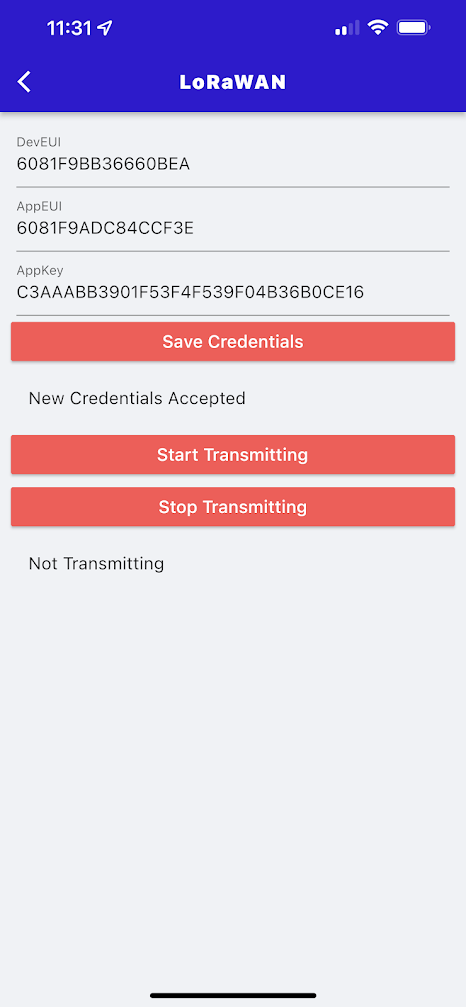
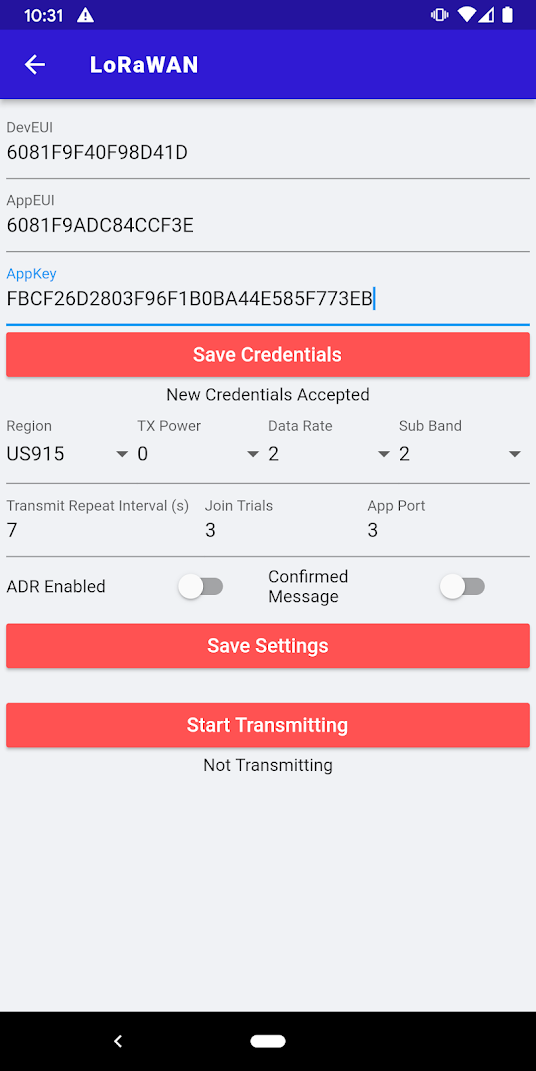
updates for new settings releases

diff --git a/docs/mobile-app/lorawan.md b/docs/mobile-app/lorawan.md
@@ -34,7 +34,7 @@ Next, enter new LoRaWAN credentials in the three provided fields.
 
 <div style={{textAlign: 'center'}}>
         <img
-        src={require('../../static/img/mobile-app/lorawan-default-creds.png').default}
+        src={require('../../static/img/mobile-app/lorawan-default-settings.png').default}
         alt="LoRaWAN Credentials"
         width="250" height="100"
         />
@@ -51,8 +51,27 @@ Next, press the `Save Credentials` button, you should see the message `New Crede
         />
 </div>
 
+## Save LoRaWAN Settings
+Next, configure the LoRaWAN settings you would like to use then press the `Save Settings` button. You should see the message `New Settings Accepted` if they were saved on the device successfully. 
+
+:::caution
+You need to both have the correct hardware device for your region and select the correct region for your device to work properly. You can lookup the LoRaWAN region you are located in by Country [here](https://docs.helium.com/lorawan-on-helium/frequency-plans#frequency-plans-by-country).
+:::
+
+<div style={{textAlign: 'center'}}>
+        <img
+        src={require('../../static/img/mobile-app/lorawan-new-settings-accepted.png').default}
+        alt="LoRaWAN Credentials Accepted"
+        width="250" height="100"
+        />
+</div>
+
 ## Start Transmitting
 Next, press the `Start Transmitting` button, you should see the message `Transmitting` show. Your device is now attempting to join the network and will uplink every five seconds following that.
+
+:::info
+If you do not see the message `Transmitting` after pressing `Start Transmitting`, then the setting are likely invalid. Please reference the [LoRaWAN Regional Parameters](https://lora-alliance.org/wp-content/uploads/2021/05/RP002-1.0.3-FINAL-1.pdf) for allowed parameters.
+:::
 
 <div style={{textAlign: 'center'}}>
         <img

diff --git a/docs/devices/rak4631/getting-started.md b/docs/devices/rak4631/getting-started.md
@@ -6,10 +6,6 @@ sidebar_position: 1
 
 The [RAK4631 WisBlock module](https://store.rakwireless.com/products/rak4631-lpwan-node) is the first device supported by the BLE LoRa project. It includes a Nordic nRF52840 MCU with BLE 5.0 paired to the latest LoRa® transceivers from Semtech, the SX126x series. Read about the current capabilities of the firmware [here](/docs/devices/rak4631/capabilities).
 
-:::info
-The current firmware is only compatible with the US915 version of the RAK4631 module and will therefore only work in the US915 region.
-:::
-
 ## First Steps
 If this is your first time using BLE LoRa firmware for this device, then follow all the steps below. 
 If you are coming back to update your device firmware to a newer version, then you can skip to the [application firmware 
@@ -39,7 +35,7 @@ Steps:
 2. If you just updated the bootloader in the step above, make sure to first quickly double press the reset button on the device. You will see the green light come on if you did it correctly. 
 3. Enter the command below in a terminal to initiate the update. If the process errors, just try again until you see the progress bar get all the way to 100%. 
 ```
-blelora dfu serial --package https://github.com/blelora/rak4631-firmware/releases/download/0.2.0/rak4631-firmware.zip --touch 1200
+blelora dfu serial --package https://github.com/blelora/rak4631-firmware/releases/download/0.3.0/rak4631-firmware.zip --touch 1200
 ```
 
 ## Next Steps

diff --git a/docs/cli/getting-started.md b/docs/cli/getting-started.md
@@ -40,7 +40,7 @@ blelora
 ```
 You should see the following help menu displayed if you have it correctly installed.
 ```
-blelora 0.1.0
+blelora 0.1.2
 Common options
 
 USAGE:
